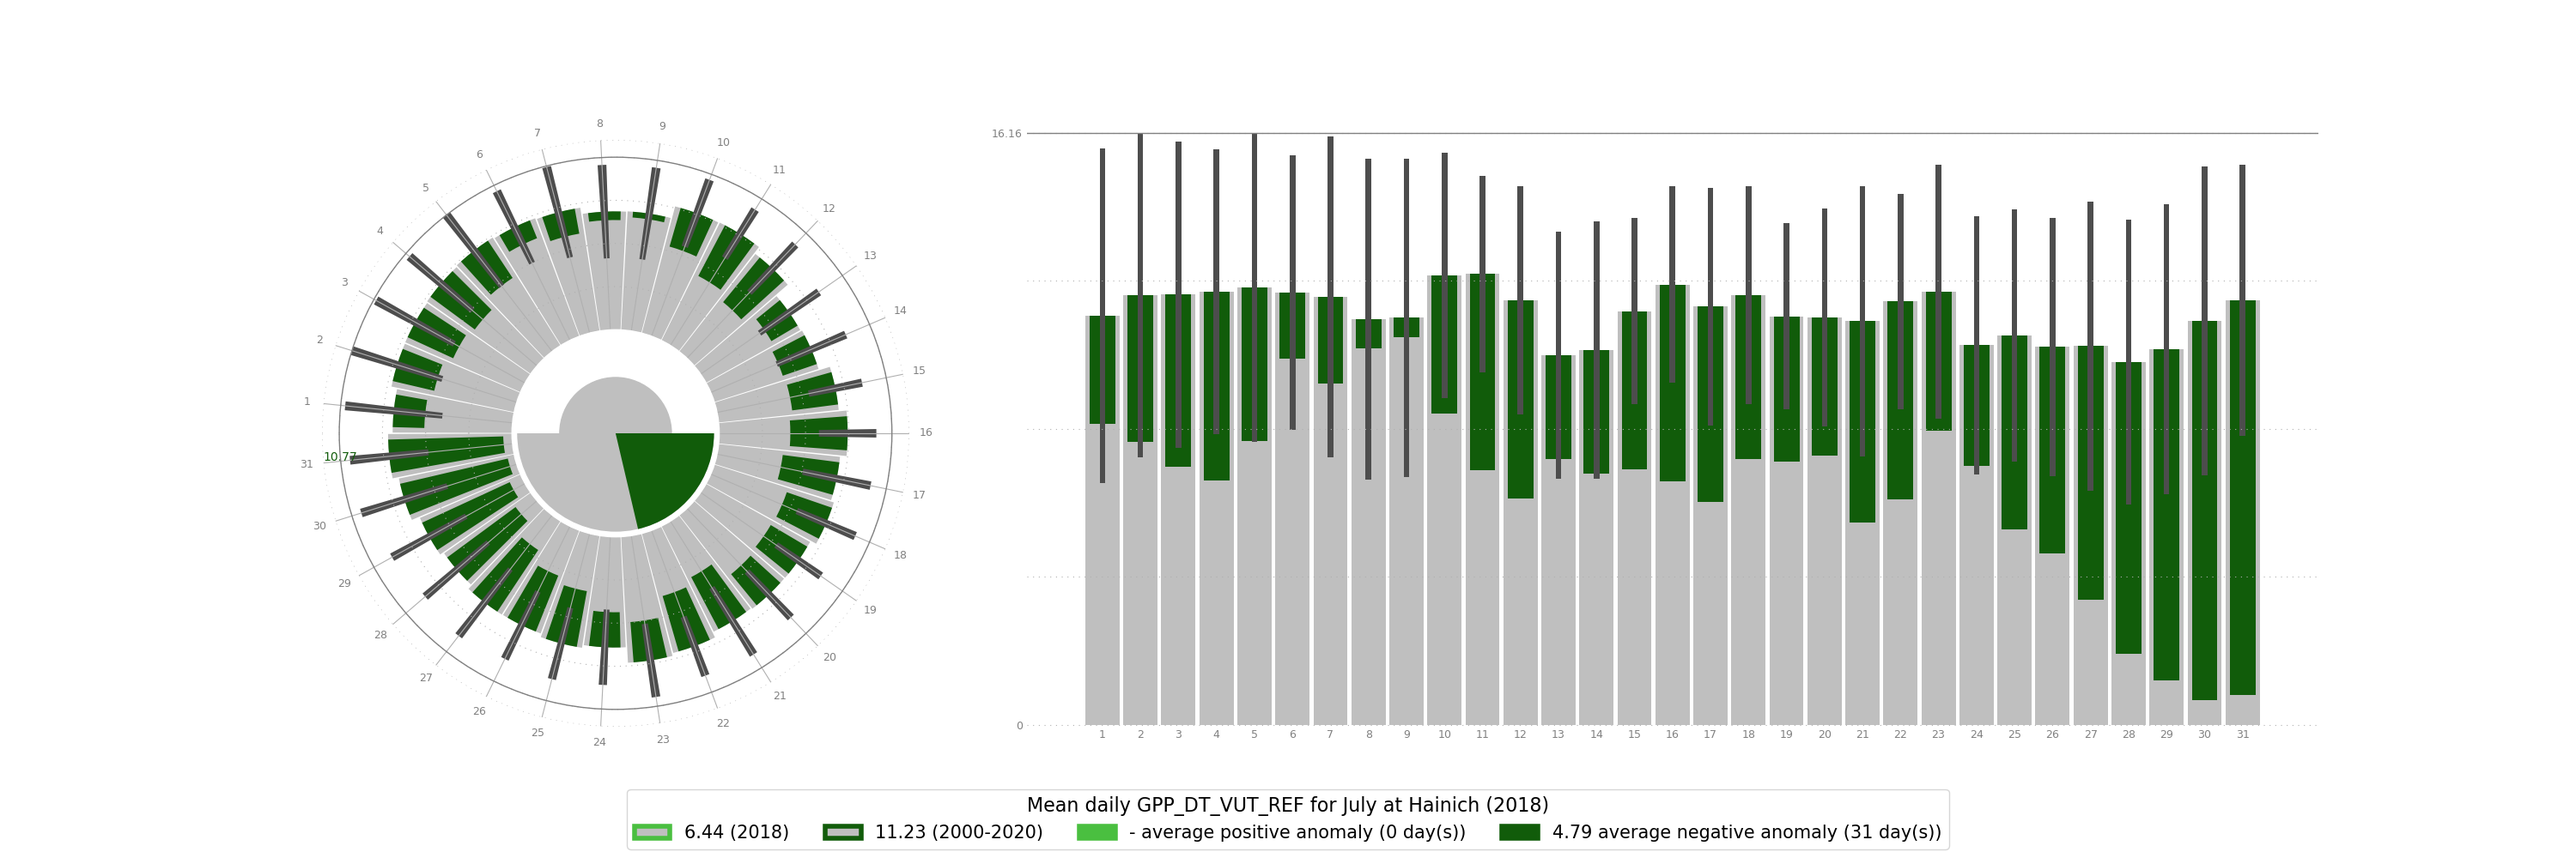
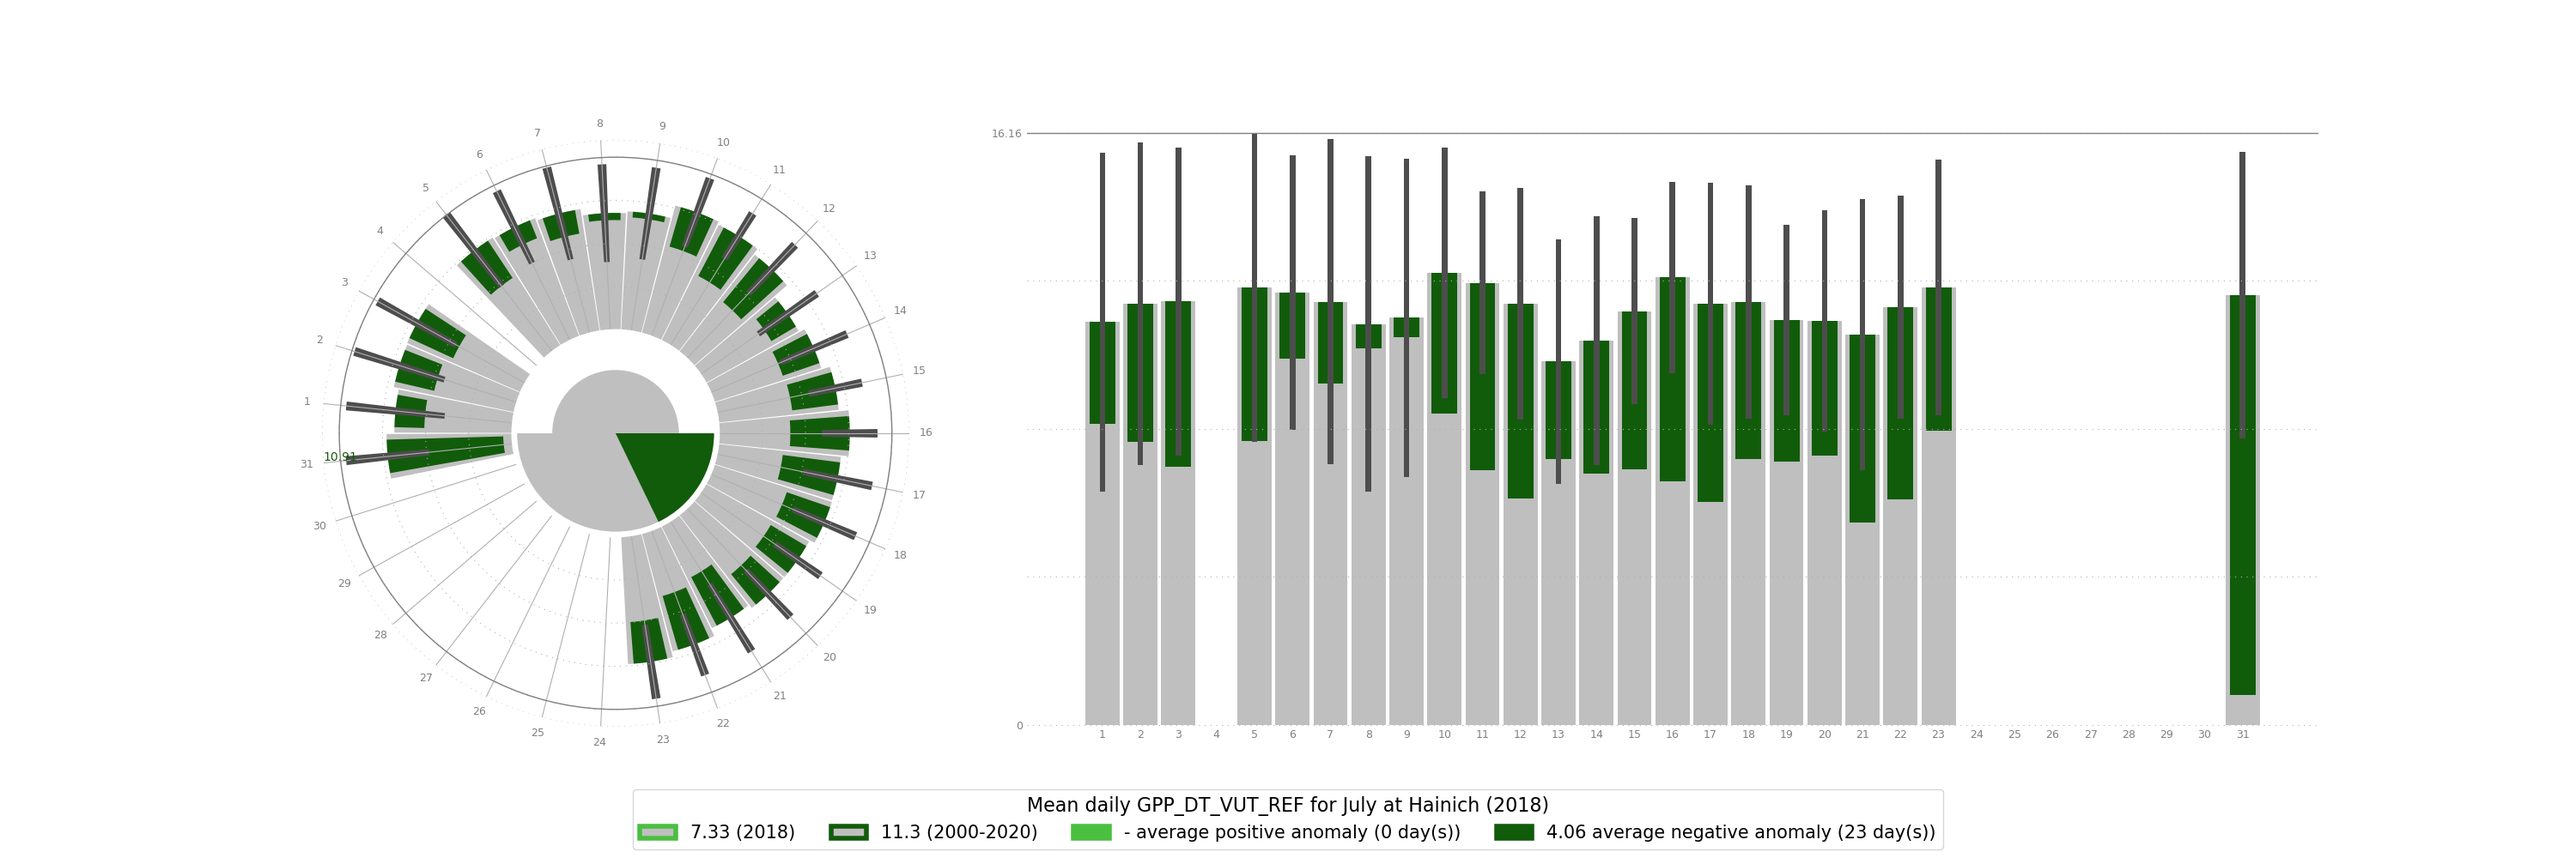
account for QC flags

diff --git a/notebooks/icos_jupyter_notebooks/ecosystem_site_anomaly_visualization/gui_anomaly.py b/notebooks/icos_jupyter_notebooks/ecosystem_site_anomaly_visualization/gui_anomaly.py
@@ -76,16 +76,17 @@ path_ten = os.path.join(data_path, 'FULLSET_DD', 'ten_year')
 path_twenty = os.path.join(data_path, 'FULLSET_DD', 'twenty_year')
 
 # use data from one variable to list all the available sites:
-data_2010_2020 = pd.read_csv(os.path.join(data_path, 'all_sites_2010_2020_GPP_DT_VUT_REF.csv'))
+data_2010_2020 = pd.read_csv(os.path.join(data_path, 'all_sites_2010_2020_GPP_DT_VUT_REF_v2.csv'))
 
 # make a tuple for use in the dropdowns
-list_all_2010_2020 = list(data_2010_2020.columns)[4:]
+list_all_2010_2020 = list(data_2010_2020.columns)[5:]
 list_all_2010_2020 = sorted(list_all_2010_2020)
 dropdown_tuple_2010_2020 = [(list(sites_dataframe.loc[sites_dataframe['id'] == (site_string.split('_')[0])]['name'])[0] + ' (' + site_string.split('_')[0] + ')', site_string) for site_string in list_all_2010_2020 if not 'std' in site_string]
 
 # same as above but for the full reference period
-data_2000_2020 = pd.read_csv(os.path.join(data_path, 'all_sites_2000_2020_GPP_DT_VUT_REF.csv'))
-list_all_2000_2020 = list(data_2000_2020.columns)[4:]
+data_2000_2020 = pd.read_csv(os.path.join(data_path, 'all_sites_2000_2020_GPP_DT_VUT_REF_v2.csv'))
+
+list_all_2000_2020 = list(data_2000_2020.columns)[5:]
 list_all_2000_2020 = sorted(list_all_2000_2020)
 dropdown_tuple_2000_2020 = [(list(sites_dataframe.loc[sites_dataframe['id'] == (site_string.split('_')[0])]['name'])[0] + ' (' + site_string.split('_')[0] + ')', site_string) for site_string in list_all_2000_2020 if not 'std' in site_string]
 
@@ -153,8 +154,15 @@ def return_year_data(reference_path, site_name, year, variable):
                     df = pd.read_csv(path_ten + "/" + file)          
 
                     df_time = df.loc[(df['TIMESTAMP'] >= int(str_date_start)) &(df['TIMESTAMP'] <= int(str_date_end))]
+                    
+                    if variable == 'GPP_DT_VUT_REF':
+                        variable_qc = 'NEE_VUT_REF_QC'
+                    if variable == 'SW_IN_F':
+                        variable_qc = 'SW_IN_F_QC'
+                    if variable == 'VPD_F':
+                        variable_qc = 'VPD_F_QC'
 
-                    df_time = df_time[["TIMESTAMP", variable]]
+                    df_time = df_time[["TIMESTAMP", variable, variable_qc]]
 
                     month= [int(str(time)[4:6]) for time in list(df_time['TIMESTAMP'])]
                     df_time['month'] = month
@@ -163,8 +171,16 @@ def return_year_data(reference_path, site_name, year, variable):
                     df_time['day'] = day
 
                     df_time = df_time.drop(df_time[(df_time.month == 2) & (df_time.day == 29)].index)
+                    
+                    df_time_for_merge = pd.DataFrame()
+                    
+                    df_time_for_merge["TIMESTAMP"] = df_time["TIMESTAMP"]
+                    
+                    df_time_qc = df_time.loc[df_time[variable_qc] > 0.7]
+                
+                    df_time_qc_full = pd.merge(df_time_for_merge, df_time_qc, how='left', left_on="TIMESTAMP", right_on = "TIMESTAMP")
 
-                    list_values = list(df_time[variable])
+                    list_values = list(df_time_qc_full[variable])
                     
                     return list_values
 
@@ -403,10 +419,12 @@ def update_func(button_c):
     
     # reference data is pre-computed and accessed depending on what variable was selected. 
     # the pre-computed data has columns for all sites, for instance: Dk-Sor_2000_2020. The name of the file has both the variable name and reference period in the name, for instance: all_sites_2000_2020_SW_IN_F
-    reference_data_a_df = pd.read_csv(os.path.join(data_path, 'all_sites_' + reference_string + '_' + variable_a_value + '.csv'))
+    reference_data_a_df = pd.read_csv(os.path.join(data_path, 'all_sites_' + reference_string + '_' + variable_a_value + '_v2.csv'))
     reference_data_a = reference_data_a_df[selected_site_a + "_" + reference_string]
     reference_data_a_std = reference_data_a_df[selected_site_a + "_" + reference_string + '_std']
+    reference_data_a_std_count = reference_data_a_df[selected_site_a + "_" + reference_string + '_std_count']
     reference_data_a_std_month = reference_data_a_df[selected_site_a + "_" + reference_string + '_std_month']
+    reference_data_a_std_month_count = reference_data_a_df[selected_site_a + "_" + reference_string + '_std_month_count']
     
     # create the dataframe with only the data that is necessary to create the figures.
     # it has the daily average reference data and daily average data for the specific year and variable. 
@@ -420,7 +438,9 @@ def update_func(button_c):
     # dictionary with filed names (used in df_final and accessed in the plot py file
     reference_values_a_col_name = selected_site_a + "_" + reference_string + '_' + variable_a_value
     sd_a_col_name = selected_site_a + "_" + reference_string + '_' + variable_a_value + '_std'
+    sd_a_col_name_count = selected_site_a + "_" + reference_string + '_' + variable_a_value + '_std_count'
     sd_a_month_col_name = selected_site_a + "_" + reference_string + '_' + variable_a_value + '_std_month'
+    sd_a_month_col_name_count = selected_site_a + "_" + reference_string + '_' + variable_a_value + '_std_month_count'
     values_a_col_name = column_name_a + '_' + variable_a_value
     
     site_b = site_choice_b.value
@@ -429,19 +449,26 @@ def update_func(button_c):
         selected_site_b = site_b.split("_")[0]
         reference_values_b_col_name =selected_site_b + "_" + reference_string + '_' + variable_b_value
         sd_b_col_name = selected_site_b + "_" + reference_string + '_' + variable_b_value + '_std'
+        sd_b_col_name_count = selected_site_b + "_" + reference_string + '_' + variable_b_value + '_std_count'
         sd_b_month_col_name = selected_site_b + "_" + reference_string + '_' + variable_b_value + '_std_month'
+        sd_b_month_col_name_count = selected_site_b + "_" + reference_string + '_' + variable_b_value + '_std_month_count'
         values_b_col_name = selected_site_b + "_" + str(year_b) + '_' + variable_b_value
         #True if (selection_dict["variable_a_value"] == selection_dict["variable_b_value"]) else False
     else:
         reference_values_b_col_name = None
         sd_b_col_name = None
+        sd_b_col_name_count = None
         sd_b_month_col_name = None
+        sd_b_month_col_name_count = None
         values_b_col_name = None
 
    
     df_final[reference_values_a_col_name] = reference_data_a
     df_final[sd_a_col_name] = reference_data_a_std
+    df_final[sd_a_col_name_count] = reference_data_a_std_count
     df_final[sd_a_month_col_name] = reference_data_a_std_month
+    df_final[sd_a_month_col_name_count] = reference_data_a_std_month_count
+    
     
     # if a second site is selected
     if site_b is not None:     
@@ -465,15 +492,19 @@ def update_func(button_c):
     if site_b is not None: 
         column_name_b = selected_site_b + "_" + str(year_b)
         values_site_b = return_year_data(path_selected, selected_site_b, year_b, variable_b_value)
-        reference_data_b_df = pd.read_csv(os.path.join(data_path, 'all_sites_' + reference_string + '_' + variable_b_value + '.csv'))
+        reference_data_b_df = pd.read_csv(os.path.join(data_path, 'all_sites_' + reference_string + '_' + variable_b_value + '_v2.csv'))
         
         reference_data_b = reference_data_b_df[selected_site_b + "_" + reference_string]
         reference_data_b_std = reference_data_b_df[selected_site_b + "_" + reference_string + '_std']
+        reference_data_b_std_count = reference_data_b_df[selected_site_b + "_" + reference_string + '_std_count']
         reference_data_b_std_month = reference_data_b_df[selected_site_b + "_" + reference_string + '_std_month']
+        reference_data_b_std_month_count = reference_data_b_df[selected_site_b + "_" + reference_string + '_std_month_count']
         
         df_final[reference_values_b_col_name] = reference_data_b
         df_final[sd_b_col_name] = reference_data_b_std
+        df_final[sd_b_col_name_count] = reference_data_b_std_count
         df_final[sd_b_month_col_name] = reference_data_b_std_month
+        df_final[sd_b_month_col_name_count] = reference_data_b_std_month_count
         
         # this order of the columns need to remain which is why column a is insert here
         df_final[values_a_col_name] = values_site_a
@@ -506,6 +537,9 @@ def update_func(button_c):
     f.write('Gross Primary Production daytime in micromol/m2/s (GPP_DT_VUT_REF);\n')
     f.write('Shortwave incoming radiation in W/m2 (SW_IN_F);\n')
     f.write('Vapor pressure deficit in hPa (VPD_F);\n')
+    f.write('Identify the selected year(s) for the site(s) based on the column heading ending with the variable name(s). The reference period(s) are provided with a dash indicating the start and end of each reference period.;\n')
+    f.write('The column(s) ending with '_std_count' represent the number of times that a specific date (row) within the reference period was flagged. These flagged values were excluded from the calculation of the standard deviation value (found in columns ending with "_std").;\n')
+    f.write('The column(s) ending with "_std_count_month" represent the number of times a day within a specific month (referenced in the"month" column) was flagged during the reference period. These flagged values were excluded from the calculation of the standard deviation value (found in columns ending with "_std_month"). Note that the values in these columns are the same when the month is the same.;\n')
     
     date_today = current_date.today()
     f.write('Date of file creation: '+ str(date_today) +';\n')
@@ -516,7 +550,7 @@ def update_func(button_c):
         f.write(citation_string_site_b + ';\n')
         
     f.write('Cite the notebook package if a figure is used:; \n')
-    f.write('Storm, I., Klasen, V,, 2023. Ecosystem site anomalies notebook tool. ICOS ERIC - Carbon Portal. https://doi.org/10.18160/AMET-9KWT;\n')
+    f.write('Storm, I., Klasen, V,, 2023. Ecosystem site anomalies notebook tool. ICOS ERIC - Carbon Portal. https://doi.org/10.18160/0GP0-HW10;\n')
     # Save the dataframe, so it can be downloaded as a csv-file in a
     # folder called "ecosystem_site_anomaly_visualization_output" under
     # "/home/user/output/" directory.
@@ -563,10 +597,36 @@ def update_func(button_c):
         display(HTML('<p style="font-size:16px"><b>Specify output:</b><br></p>'))
     
     with output_plot_anomalies:
+
+        # Some updates to the dataframe to account for the flagged data
         
+        # not show standard deviation values in case of no values
+        # here when showing days in a month
+        df_final[sd_a_col_name] = np.where(np.isnan(df_final[values_a_col_name]), np.nan, df_final[sd_a_col_name])
+        # here when showing months in a year: all values in the month must be missing
+        count_vals_per_month = df_final.groupby('month', dropna=True).count()
+        # list of months that have no values:
+        count_vals_per_month = count_vals_per_month.loc[count_vals_per_month[values_a_col_name] == 0]
+        exclude_std_months = list(count_vals_per_month.index)         
+        df_final[sd_a_month_col_name] = np.where(np.isin(df_final["month"], exclude_std_months), np.nan, df_final[sd_a_month_col_name])
+   
+        # not show standard deviation bar in case of too few values (set to five currently). Only up to 11 for individual days std.
+        # assumes all reference periods will have enough values for the standard deviations for months
+        df_final[sd_a_col_name] = np.where(df_final[sd_a_col_name_count]>5,  np.nan, df_final[sd_a_col_name])
+                       
+        if site_b is not None:
+
+            # same updates made to the data associated with the second selection
+            df_final[sd_b_col_name] = np.where(np.isnan(df_final[values_b_col_name]), np.nan, df_final[sd_b_col_name])
+            count_vals_per_month = count_vals_per_month.loc[count_vals_per_month[values_b_col_name] == 0]
+            exclude_std_months = list(count_vals_per_month.index)         
+            df_final[sd_b_month_col_name] = np.where(np.isin(df_final["month"], exclude_std_months), np.nan, df_final[sd_b_month_col_name])
+            
+            df_final[sd_b_col_name] = np.where(df_final[sd_b_col_name_count]>5,  np.nan, df_final[sd_b_col_name])
+
         plot_interface_anomaly.plot_anomalies(df_final, data_filename, selection_dict, colors_positive_anomalies_dict, colors_negative_anomalies_dict)
             
-    # after the tool is done running, it is possible to make a new tool run (hence the update button can be pressed given that the necessary widgets are populated)
+    # after the tool is done running, it is possible to make a new tool run (hence the update buttn can be pressed given that the necessary widgets are populated)
     update_button.tooltip='Click to start the run'
     update_button.style.button_color=button_color_able  
     update_button.disabled = False

diff --git a/notebooks/icos_jupyter_notebooks/ecosystem_site_anomaly_visualization/plot_interface_anomaly.py b/notebooks/icos_jupyter_notebooks/ecosystem_site_anomaly_visualization/plot_interface_anomaly.py
@@ -109,7 +109,13 @@ def make_plot_anomalies(df,
         # The error was discovered for Hainich Jan 2018. It happens here: posAnomalyAngle = radians((totalPositiveAnomaly/totalValues)*180)
         for df_column in df.columns:
             if df[df_column].sum() == 0:
-                return display(HTML('<p style="font-size:16px">0 for all days in the selected month</p>'))
+                # okay if it is no standard deviation bar (it will not be any in case there are more than 5/11 days in the reference period that had flagged data.
+                if 'std' not in df_column:
+                    if 'reference_b_std' in locals():
+                        return display(HTML('<p style="font-size:16px">no valid data in the selected month for at least one of the sites</p>'))
+                    
+                    else:
+                        return display(HTML('<p style="font-size:16px">no valid data in the selected month</p>'))
 
         bintype = 'day'
         if selection_dict["selected_site_b"] is not None:
@@ -130,9 +136,25 @@ def make_plot_anomalies(df,
     else:
         return 'Choose a temporal scope!'
 
+    
+    # now we have used the original data with nan to calculate all values needed for the legend.
+    # here we give the values 0 where there simply should not be anything in the graph.
+    df_nan_0 = df.copy()
+    
+    # the reference values were kept for the average
+    # now replaced wiht nan (and then changed to zero) because do not want to show it in the output
+    df_nan_0[reference_a] = np.where(np.isnan(df_nan_0[values_a]), np.nan, df_nan_0[reference_a])
+    
+    # in case of a second site
+    if not single_plot:
+        df_nan_0[reference_b] = np.where(np.isnan(df_nan_0[values_b]), np.nan, df_nan_0[reference_b])
+    
+    df_nan_0.fillna(0, inplace=True)
+    
     if single_plot:
+        
         output = cyclebars_anomalies(
-            data = df,
+            data = df_nan_0,
             labels = bintype,
             values_a = values_a,
             reference_values_a = reference_a,
@@ -144,10 +166,11 @@ def make_plot_anomalies(df,
             plot_legends=False,
             pie_offset=0,
         )
+        
     else:
         if same_variable:
             output = cyclebars_anomalies(
-                data = df,
+                data = df_nan_0,
                 labels = bintype,
                 values_a = values_a,
                 reference_values_a = reference_a,
@@ -164,7 +187,7 @@ def make_plot_anomalies(df,
             )
         else:
             output_a = cyclebars_anomalies(
-                data = df,
+                data = df_nan_0,
                 labels = bintype,
                 values_a = values_a,
                 reference_values_a = reference_a,
@@ -177,7 +200,7 @@ def make_plot_anomalies(df,
                 pie_offset=0,
             )
             output_b = cyclebars_anomalies(
-                data = df,
+                data = df_nan_0,
                 labels = bintype,
                 values_a = values_b,
                 reference_values_a = reference_b,
